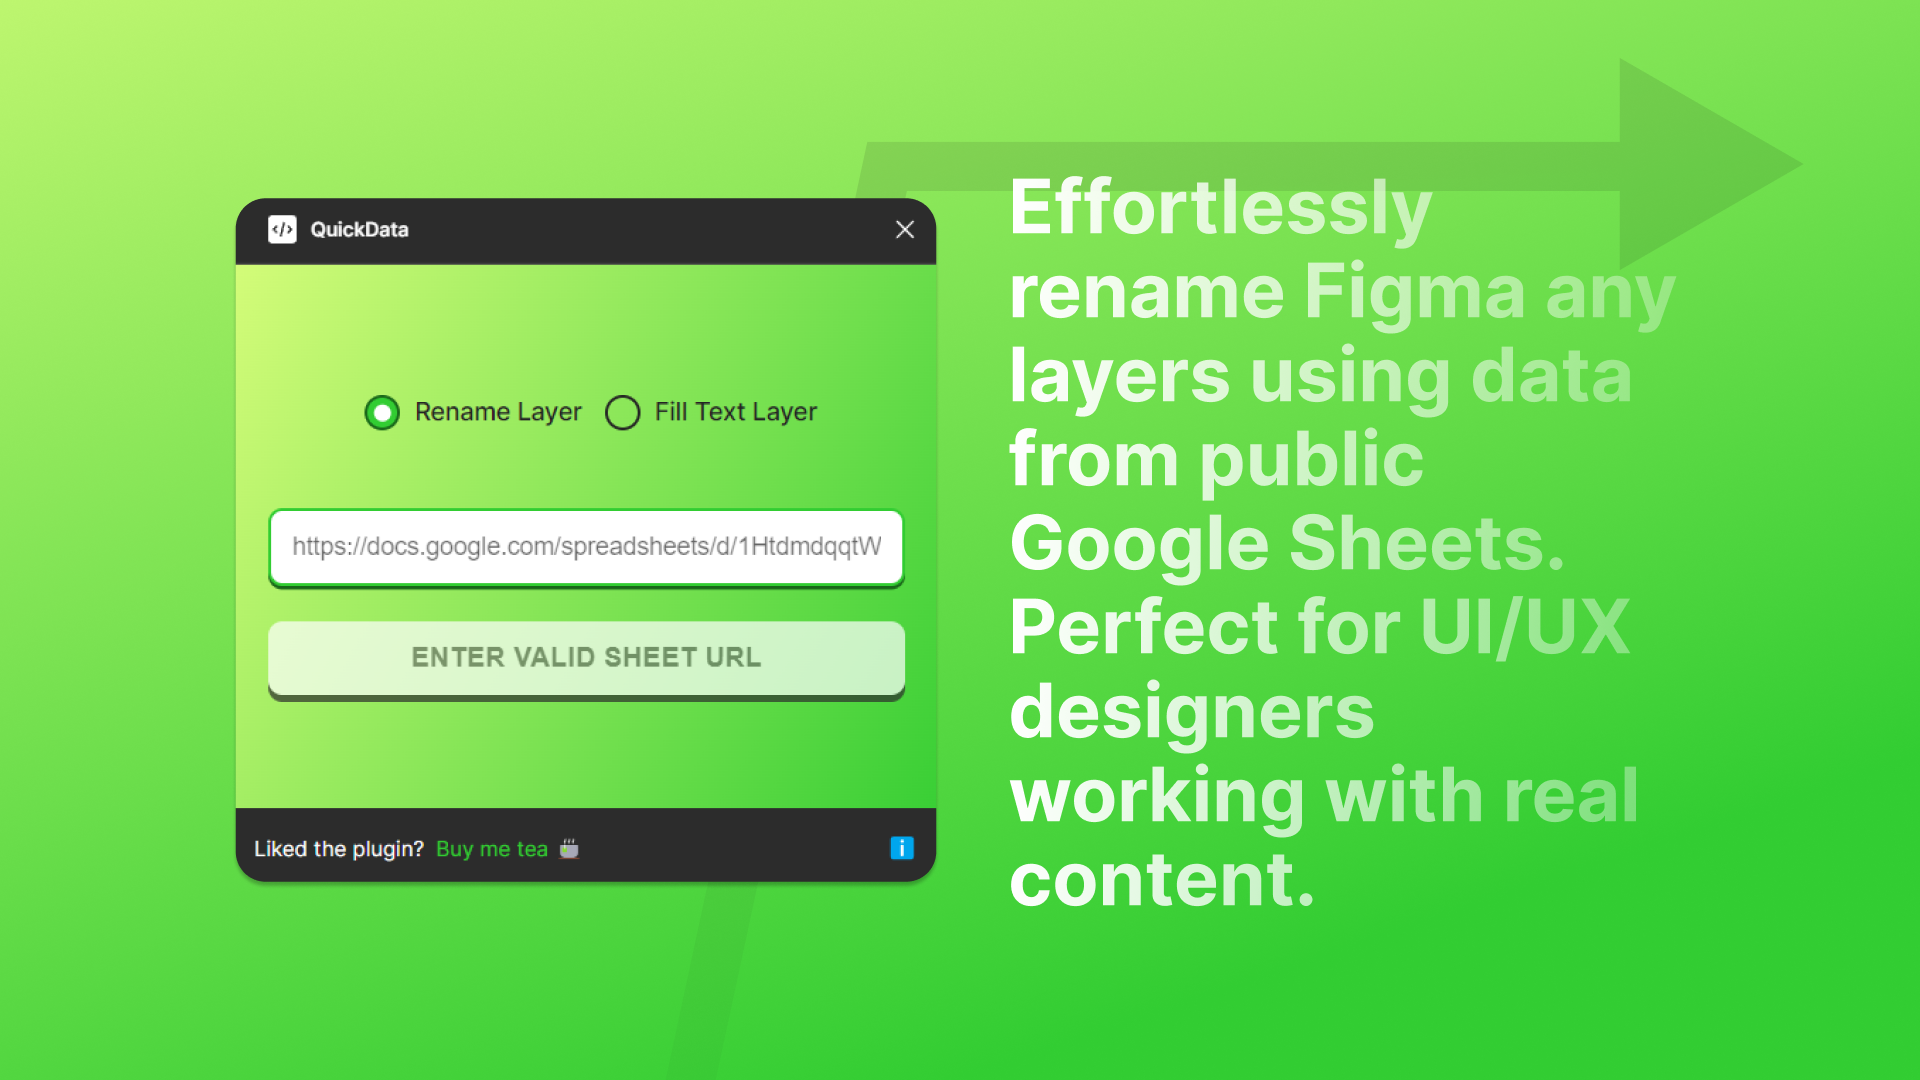
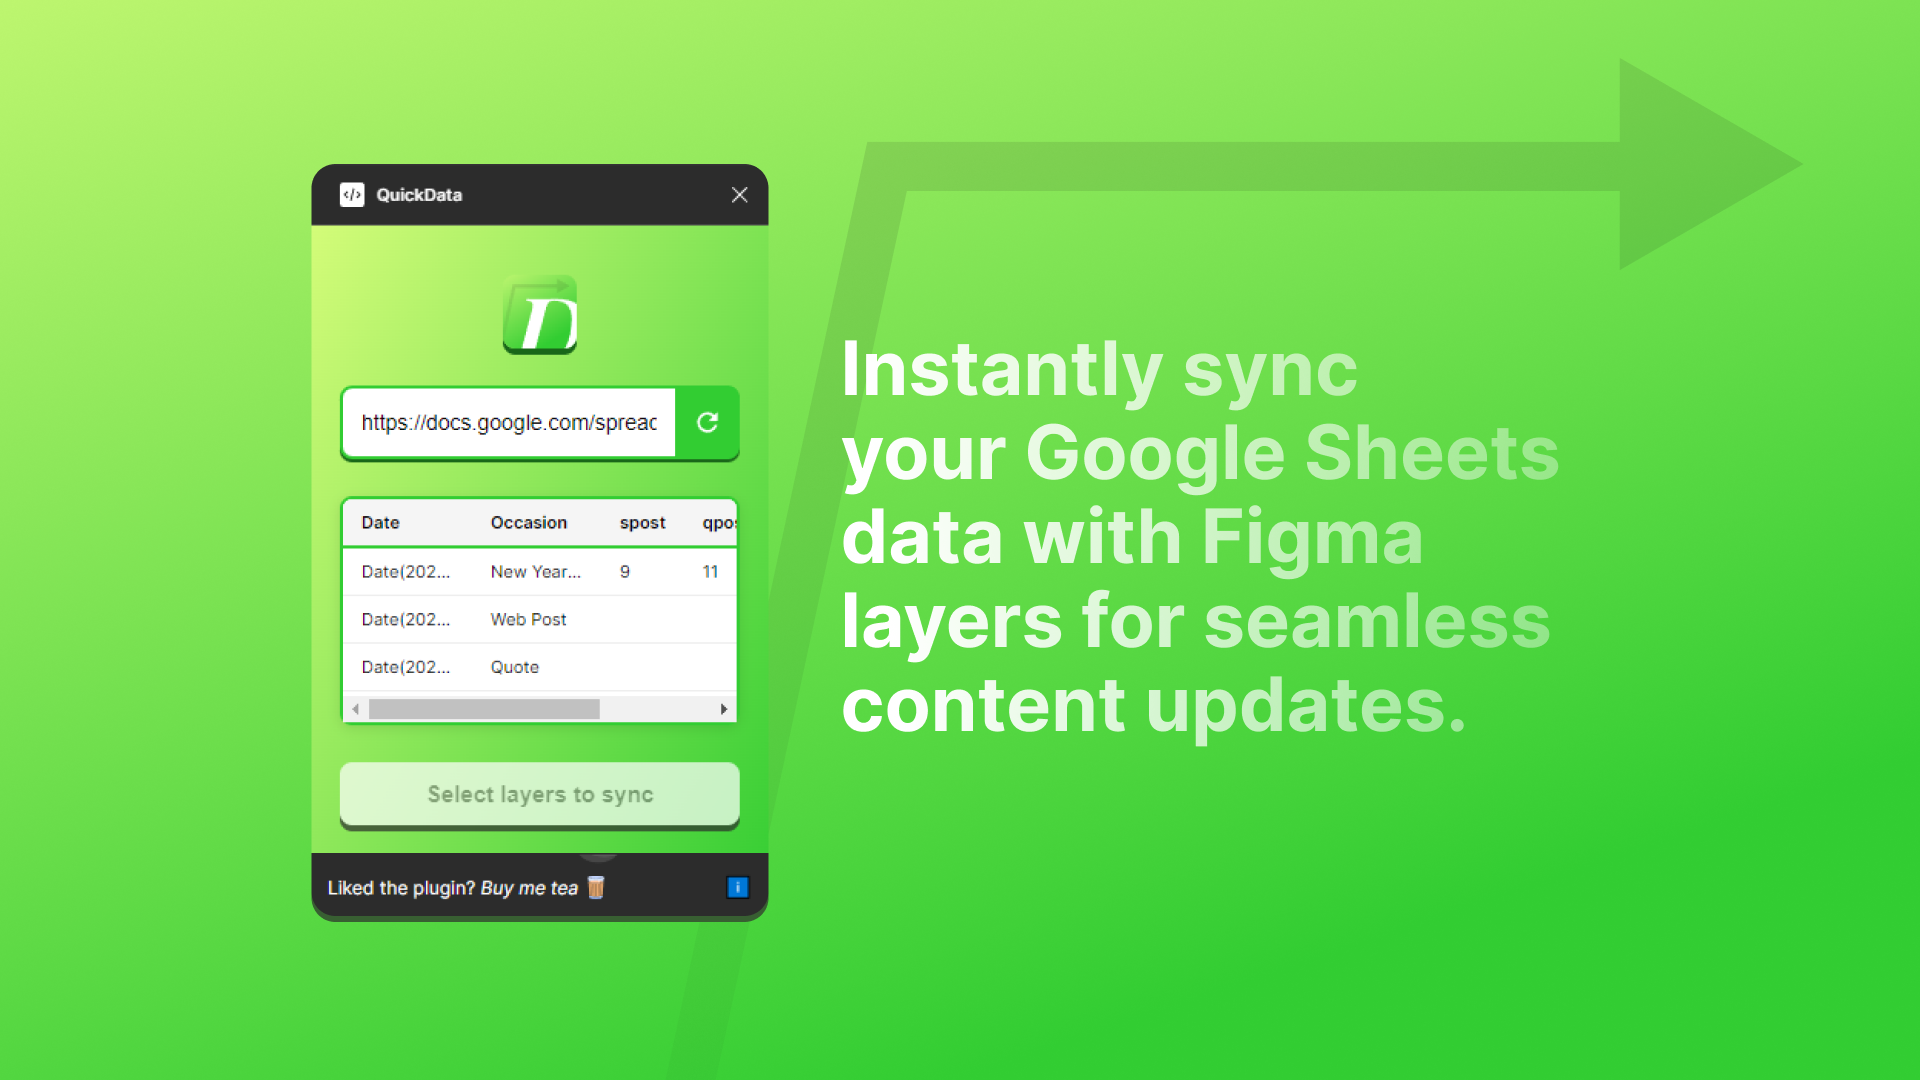
chnages made note

Changed region(s): [[0.125, 0.1528, 0.875, 0.8556]]

diff --git a/projects/Fig-Plugin/QuickData/RELEASE_NOTES.md b/projects/Fig-Plugin/QuickData/RELEASE_NOTES.md
@@ -1,0 +1,64 @@
+# QuickData Plugin Release Notes
+
+## Version 2.0.0 (2024)
+
+### Major Changes
+- **Streamlined Data Syncing**
+  - Simplified the core functionality to focus on direct Google Sheets integration
+  - Improved data normalization for sheets with or without frozen headers
+  - Enhanced error handling for invalid URLs and data formats
+
+### UI Improvements
+- **Tea Cup Animation**
+  - Added animated steam effects with three particles
+  - Implemented hover animations for the "Buy me tea" link
+  - Refined positioning and styling of the tea cup SVG
+  - Modified steam animation timing and positions
+
+- **Instructions Modal**
+  - Reorganized the "How to use" modal content for better clarity
+  - Added clearer sections for:
+    - Sheet preparation
+    - Plugin usage
+    - Layer syncing
+  - Included tips about header rows and preview functionality
+
+### Technical Improvements
+- **Code Optimization**
+  - Removed unused interfaces and functions for better maintainability
+  - Streamlined the core data syncing logic
+  - Improved error message handling
+  - Enhanced logging for better debugging
+
+### User Experience
+- **Better Feedback**
+  - Added clear success messages with layer count details
+  - Improved error notifications with specific failure reasons
+  - Added loading states during data fetch operations
+
+### Documentation
+- **Plugin Description**
+  - Updated cover image text: "Instantly sync your Google Sheets data with Figma layers for seamless content updates"
+  - Enhanced usage instructions and examples
+
+## How to Use
+1. **Prepare Your Google Sheet**
+   - Make your sheet public (File → Share → Anyone with the link)
+   - Ensure your first row contains column headers
+   - For best results, freeze the header row
+
+2. **In the Plugin**
+   - Paste your Google Sheet URL
+   - Preview your data in the table
+   - Use the refresh button to update data if needed
+
+3. **Layer Setup**
+   - Name your layers with # followed by the column name
+   - Example: For "Name" column → Layer "#Name"
+   - Spaces and special characters are removed automatically
+
+4. **Sync Data**
+   - Select the layers you want to update
+   - Click the "Sync" button
+   - Text layers: Both name and content update
+   - Other layers: Names update only 
